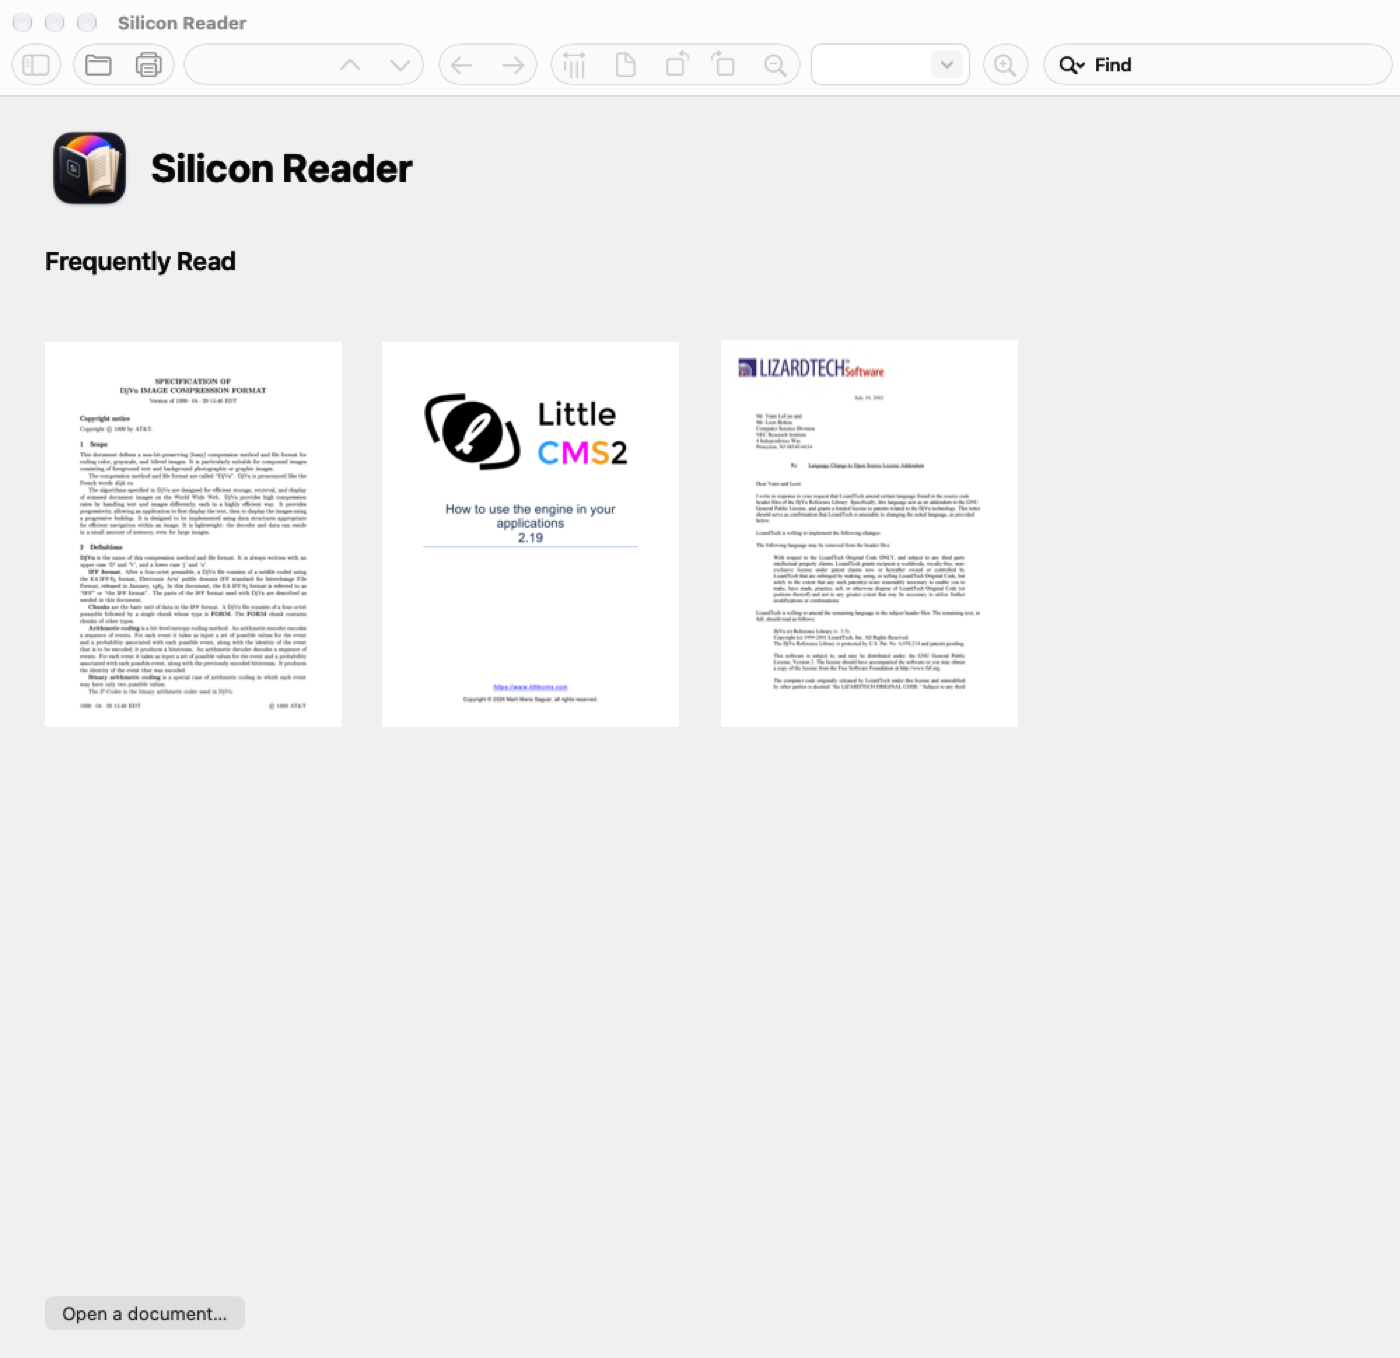
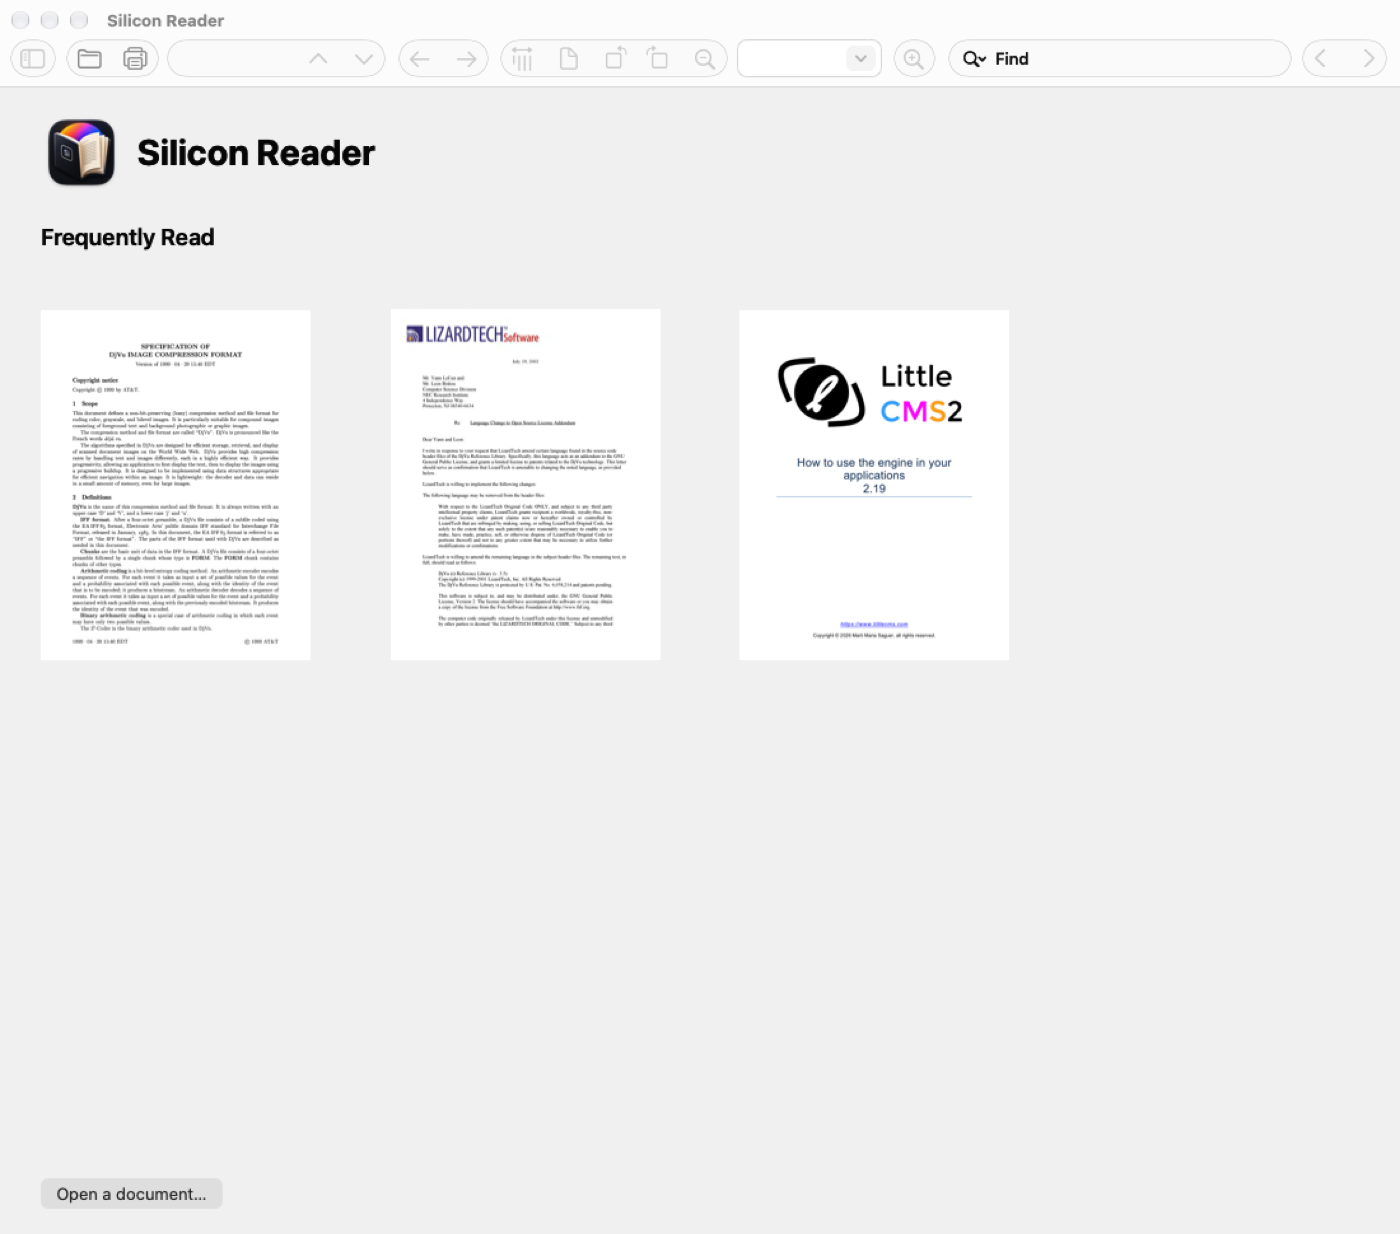
docs: changelog for 1.0.2, new screenshots

diff --git a/README.ru.md b/README.ru.md
@@ -28,7 +28,7 @@
 - 📂 **Open Recent и drag-and-drop** — файлы, брошенные на окно, открываются вкладками
 - ⚙ **Настройки** — режим и масштаб по умолчанию, что запоминать, восстановление сессии, автоперезагрузка
 - 🏠 **Домашняя страница** с миниатюрами «Frequently Read»
-- 🔎 **Поиск** с подсветкой всех совпадений, учёт регистра, ⌘G / ⇧⌘G
+- 🔎 **Поиск** с подсветкой всех совпадений, учёт регистра, ⌘G / ⇧⌘G или стрелки рядом с полем поиска
 - ✂ **Выделение и копирование текста**, двойной/тройной клик, масштаб по выделению, ссылки
 - 💾 **Всё помнит** — страницу, масштаб и режим для каждого документа, восстанавливает сессию
 - 🔄 **Сама перезагружает** документ, когда файл меняется на диске (удобно с LaTeX)

diff --git a/CHANGELOG.md b/CHANGELOG.md
@@ -10,6 +10,27 @@ publishes the DMG with this section as the release notes.
 
 ## [Unreleased]
 
+## [1.0.2] - 2026-10-21
+
+### Added
+
+- Find Previous / Find Next arrows next to the toolbar's search field; they search
+  for the field's text, so Return isn't needed first.
+
+### Fixed
+
+- Choosing a zoom level from the toolbar's drop-down list had no effect.
+- While the page, zoom or search box had the focus, the toolbar buttons that act on
+  the page (zoom out, fit, rotate) were disabled until you clicked the page.
+
+### Changed
+
+- Dark mode: the background around pages is the system's dark gray instead of
+  pure black.
+- New windows are 1100 points wide (was 1000), so the whole toolbar, search field
+  included, fits next to the sidebar.
+- New screenshots in the README.
+
 ## [1.0.1] - 2026-10-21
 
 ### Fixed

diff --git a/TODO.md b/TODO.md
@@ -70,6 +70,9 @@ system dialogs. The home-page Open crash (fixed in 1.0) lived exactly there.
 - [x] Released 1.0.0: https://github.com/Arroheim/silicon_reader/releases/tag/v1.0.0
 - [x] Released 1.0.1 (Liquid Glass layout fix, tested on macOS 14 before publishing):
       https://github.com/Arroheim/silicon_reader/releases/tag/v1.0.1
+- [x] Released 1.0.2 (toolbar zoom list, buttons disabled while a toolbar box had the
+      focus, Find Previous/Next arrows, dark-gray canvas):
+      https://github.com/Arroheim/silicon_reader/releases/tag/v1.0.2
 - [x] Local builds record the real SDK (they used to link as "sdk 14.0" and so never
       showed the macOS 26+ look); `make app` checks minos 14.0 / SDK / system-only
       libraries with `scripts/check-binary.sh`

diff --git a/README.md b/README.md
@@ -28,7 +28,7 @@ the same engines Sumatra uses.
 - 📂 **Open Recent** and **drag and drop** — drop files on a window to open them as tabs
 - ⚙ **Settings** — default layout and zoom, what to remember, session restore, auto reload
 - 🏠 **Home page** with "Frequently Read" thumbnails
-- 🔎 **Find** with highlights for every match, match case, ⌘G / ⇧⌘G
+- 🔎 **Find** with highlights for every match, match case, ⌘G / ⇧⌘G or the arrows next to the search field
 - ✂ **Text selection and copy**, double/triple click, zoom to selection, clickable links
 - 💾 **Remembers everything** — page, zoom and layout per document, restores the session
 - 🔄 **Reloads automatically** when a file changes on disk (handy with LaTeX)
